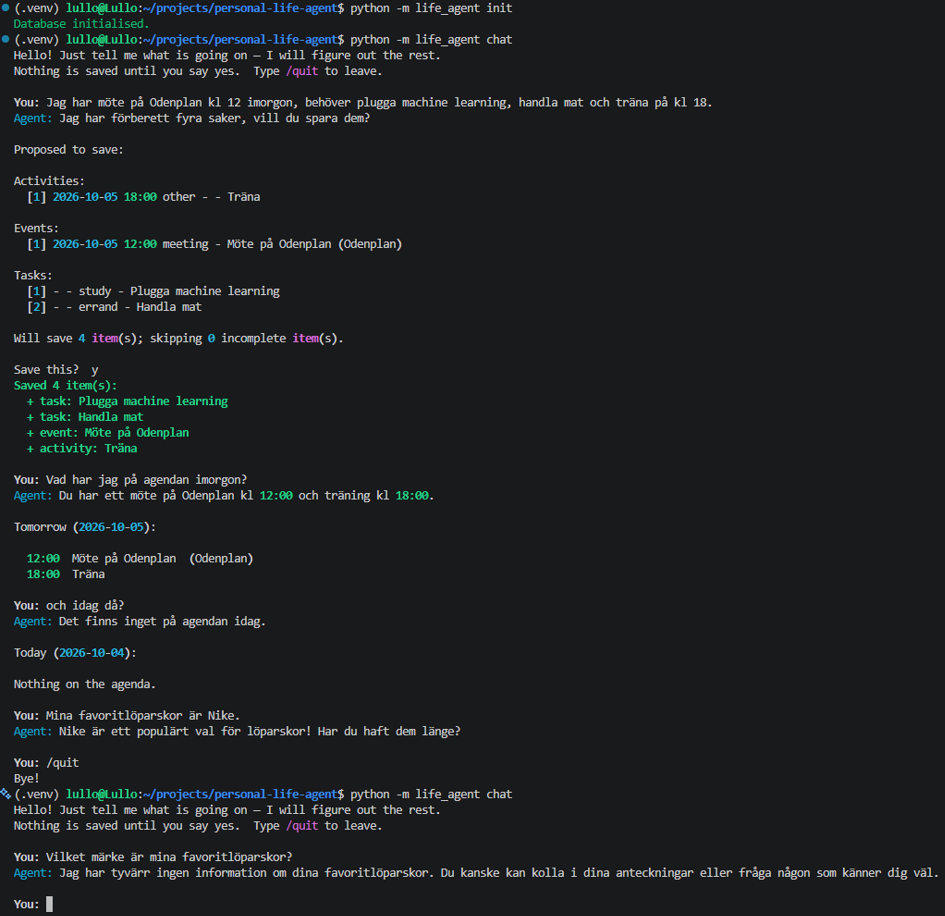
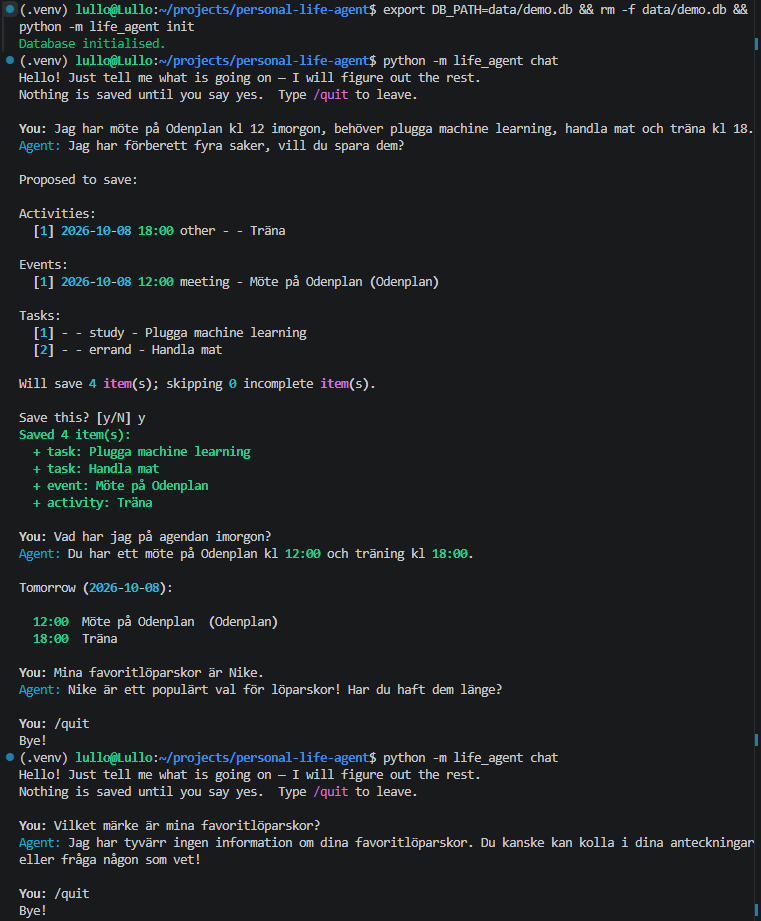
Add the pilot's chain and a new agent demo as fallback screenshots
Five screenshots of the coffee_intake chain for c6853660 in Neo4j Browser,
taken on 7 October: the chain with REPLACED_BY, the replaced edge with its
stamps, the new edge, and what held on 26 and 27 May. The agent demo is
retaken against a fresh data/demo.db, so the save question shows [y/N] and
the sentence reads "träna kl 18", with a second image of events showing
the meeting still there. docs/presentation.md points at them.

diff --git a/docs/presentation.md b/docs/presentation.md
@@ -102,9 +102,7 @@ The graph still holds both.
 
 | Part | Needs | If it is not there |
 |---|---|---|
-| 1 | the network and the model | `presentation/agent-demo-steps-1-to-5.png`, taken on 4 October. It is older than the commit that made `[y/N]` visible in the save question (`362f17c`), and its first sentence reads "träna på kl 18". |
+| 1 | the network and the model | `presentation/agent-demo-steps-1-to-5.png` and `presentation/agent-demo-events.png`, taken on 7 October against a fresh `data/demo.db`: the day saved, the question about tomorrow, the shoes, `/quit`, the new chat that does not know the shoes, and `events` with the meeting still there. |
 | every part | the network, for the slides | The repo itself: [results.md](results.md) for parts 6 and 7, the interface and the classes in the editor for part 3, and the comparison file above for part 5. |
 | 6 | the tokenizer's vocabulary, which the check downloads on its first run | The tables in [results.md](results.md) as they stand. `pytest` needs neither the network nor the tokenizer. |
-| 7 | Docker and the Neo4j container | The chain as the slide draws it. Or the same two queries on the spike's graph for `dad224aa`, where a Saturday wake-up time of 8:30 am is replaced by 7:30 am, taken on 5 October: `presentation/neo4j-spike-dad224aa-replaced-edge.png`, `-held-on-25-may.png` and `-held-on-28-may.png`. The spike is a trial on a history no run measures (ADR 0018). Without a database, the test `test_what_held_before_a_replacement_can_still_be_asked_for` in `tests/test_memory.py` shows the rule. |
-
-Screenshots of the pilot's chain for `c6853660` are not taken yet.
+| 7 | Docker and the Neo4j container | The chain as the slide draws it. Or the two queries above as Neo4j Browser showed them on 7 October: `presentation/neo4j-pilot-c6853660-replaced-edge.png` (the chain, with `REPLACED_BY`), `-old-edge-details.png` (the replaced edge with its `at`, `replaced_at` and `replaced_by`), `-new-edge-details.png`, `-held-on-26-may.png` and `-held-on-27-may.png`. The same on the spike's graph for `dad224aa`, where a Saturday wake-up time of 8:30 am is replaced by 7:30 am, taken on 5 October: `presentation/neo4j-spike-dad224aa-replaced-edge.png`, `-held-on-25-may.png` and `-held-on-28-may.png`; the spike is a trial on a history no run measures (ADR 0018). Without a database, the test `test_what_held_before_a_replacement_can_still_be_asked_for` in `tests/test_memory.py` shows the rule. |
